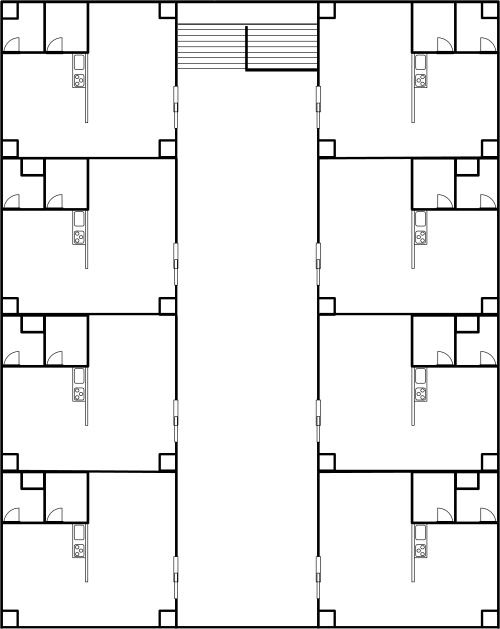
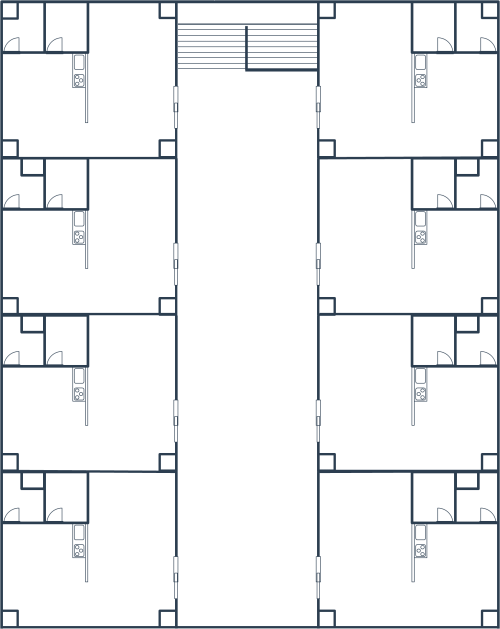
refs #16083 タイムラインViewControllerのスイッチを実行したときに マップViewControllerのデリゲートメソッドで ユーザビューをhiddenにする処理を追加した。 画像の色を微修正した。

Changed region(s): [[0.0, 0.0, 1.0, 1.0]]

diff --git a/SmartAttend/SAMapViewController.m b/SmartAttend/SAMapViewController.m
@@ -11,8 +11,9 @@
 #import "PulseView.h"
 #import <CoreLocation/CoreLocation.h>
 #import "SATabBarDataManager.h"
+#import "SATimeLineViewController.h"
 
-@interface SAMapViewController ()
+@interface SAMapViewController () <SATimeLineViewControllerDelegate>
 @property (nonatomic, weak) IBOutlet PulseView *pulseView;
 @end
 
@@ -31,6 +32,9 @@
 {
     [super viewDidLoad];
     [SATabBarDataManager sharedManager].toolBarScrollStatus = QVToolBarScrollStatusInit;
+    SATimeLineViewController *timeViewController  = [[self.tabBarController viewControllers] objectAtIndex:0];
+    timeViewController.delegate = self;
+    
     // Do any additional setup after loading the view.
     [self.pulseView setupHaloLayer];
 }
@@ -54,7 +58,7 @@
     // Pass the selected object to the new view controller.
 }
 */
-#pragma mark - Private
+#pragma mark - Notification Handler
 
 -(void)didRangeBeacon:(NSNotification *)notification
 {
@@ -84,6 +88,16 @@
                 break;
         }
         [self.pulseView updateViewStateWithBeacon:foundBeacon];
+    }
+}
+
+#pragma mark - SATimelineViewController Delegate
+- (void) changeSwitch:(BOOL)isOn
+{
+    if (isOn) {
+        self.pulseView.hidden = NO;
+    } else {
+        self.pulseView.hidden = YES;
     }
 }
 

diff --git a/SmartAttend/SATimeLineViewController.h b/SmartAttend/SATimeLineViewController.h
@@ -14,6 +14,10 @@ FOUNDATION_EXPORT NSString * const kMessageContent;
 FOUNDATION_EXPORT NSString * const kMessageRuntimeSentBy;
 FOUNDATION_EXPORT NSString * const kShopId;
 
+@protocol SATimeLineViewControllerDelegate <NSObject>
+- (void) changeSwitch:(BOOL)isOn;
+@end
+
 @interface SATimeLineViewController : UIViewController
 
 /*!
@@ -30,4 +34,5 @@ FOUNDATION_EXPORT NSString * const kShopId;
  */
 - (void) addNewMessage:(NSDictionary *)message;
 
+@property (nonatomic, assign) id<SATimeLineViewControllerDelegate> delegate;
 @end

diff --git a/SmartAttend/SATimeLineViewController.m b/SmartAttend/SATimeLineViewController.m
@@ -468,6 +468,12 @@ static NSString * kMessageCellReuseIdentifier = @"MessageCell";
         self.beaconSwitch.on = NO;
     }
     [self.beaconSwitch setOn:self.beaconSwitch.on animated:YES];
+    
+    // マップのユーザ位置を表示/非表示にする
+    if ([self.delegate respondsToSelector:@selector(changeSwitch:)])
+    {
+        [self.delegate changeSwitch:beaconSwitch.on];
+    }
 	return;
 }
 
